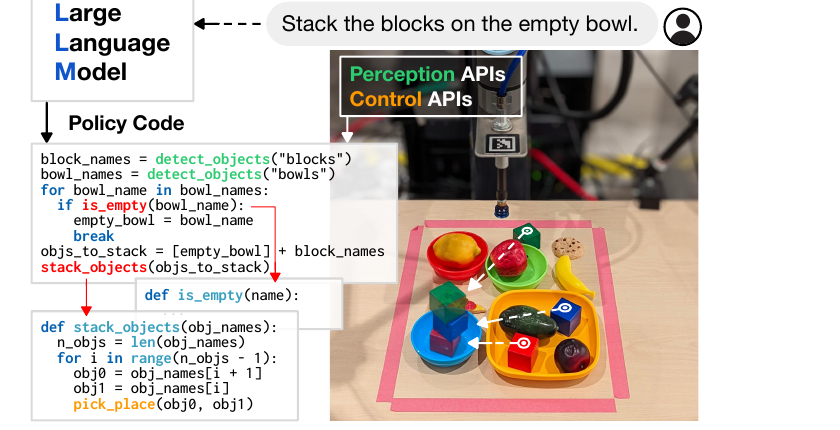
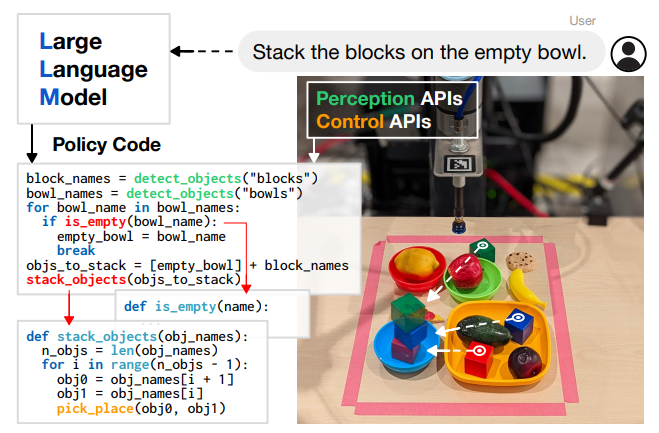
fix: 修复一些图片格式2

diff --git a/chapters/chapter1.tex b/chapters/chapter1.tex
@@ -48,7 +48,7 @@
 
 \begin{figure}[htbp]
   \centering
-  \includegraphics[width=0.72\linewidth]{figures/content/dmp_simulation}
+  \includegraphics[width=0.88\linewidth]{figures/content/dmp_simulation}
   \caption{基于动态运动基元的机械臂抓取与放置仿真实验\cite{pastor2009learning}}
   \label{fig:dmp_sim}
 \end{figure}
@@ -57,12 +57,12 @@
 
 2013年，瑞士洛桑联邦理工学院的研究人员对动态运动基元框架进行了系统性总结与扩展，将离散运动与周期运动纳入同一框架，并从理论层面证明了该方法在稳定性与泛化性方面的优势\cite{ijspeert2013dynamical}。同年，德国达姆施塔特工业大学的研究人员提出了概率运动基元方法，通过引入概率分布对运动轨迹进行表征，不仅能够处理示教数据中的不确定性，还支持多技能的组合与条件化执行，进一步提升了机器人对不同任务变量的适应能力\cite{paraschos2013probabilistic}。2016年，Idiap研究所的研究人员提出了任务参数化高斯混合模型方法，通过将任务相关的坐标系参数化引入技能表示，使机器人能够在不同参考系下自适应地复现操作技能\cite{calinon2016tutorial}。在国内，北京科技大学的研究团队于2022年提出了一种基于动态运动基元的机器人技能学习框架，通过引入分阶段示教策略与自适应神经网络控制方法，解决了多关节机械臂在执行复杂长序列任务时的轨迹拼接与高精度跟踪问题，提升了技能学习系统在实际应用中的可靠性\cite{kong2023dynamic}。
 
-然而，上述传统方法在面对高维状态空间以及需要视觉反馈的复杂任务时，其适应性受到了限制。随着深度学习技术的发展，机器学习方法逐渐成为机械臂操作技能学习的主流研究方向。2015年，加州大学伯克利分校的研究团队将引导策略搜索方法应用于机械臂操作任务，通过在轨迹空间中交替优化局部控制器与全局神经网络策略，在真实机械臂上成功实现了包括螺丝拧紧、插销装配等多种操作技能\cite{levine2015learning}。2017年，谷歌DeepMind与加州大学伯克利分校的联合研究团队提出了基于异步离策略更新的深度强化学习框架，通过将多台机器人并行采集的经验汇聚至共享的经验回放池进行异步策略更新，提升了样本效率，在真实机械臂上无需任何人工示教地学习了开门等复杂操作技能\cite{gu2017deep}。同年，OpenAI的研究团队提出了事后经验回放机制，通过将未达成目标的失败经验重新标记为成功达成其他目标的经验，在推、滑动和抓取等机械臂操作任务上提升了样本效率与学习成功率\cite{andrychowicz2017hindsight}。2018年，Google Brain的研究团队提出了可扩展的深度强化学习框架，通过收集真实机械臂抓取数据，在真实机械臂上实现了闭环视觉抓取技能，并展现出自动重抓取与非预抓取操作等复杂智能行为\cite{kalashnikov2018qt}。如图\ref{fig:qtopt_system}所示，QT-Opt采用分布式强化学习架构，通过离线与在线经验回放池驱动贝尔曼更新与交叉熵策略优化，实现了大规模视觉抓取技能的端到端学习。
+然而，上述传统方法在面对高维状态空间以及需要视觉反馈的复杂任务时，其适应性受到了限制。随着深度学习技术的发展，机器学习方法逐渐成为机械臂操作技能学习的主流研究方向。2015年，加州大学伯克利分校的研究团队将引导策略搜索方法应用于机械臂操作任务，通过在轨迹空间中交替优化局部控制器与全局神经网络策略，在真实机械臂上成功实现了包括螺丝拧紧、插销装配等多种操作技能\cite{levine2015learning}。2017年，谷歌DeepMind与加州大学伯克利分校的联合研究团队提出了基于异步离策略更新的深度强化学习框架，通过将多台机器人并行采集的经验汇聚至共享的经验回放池进行异步策略更新，提升了样本效率，在真实机械臂上无需任何人工示教地学习了开门等复杂操作技能\cite{gu2017deep}。同年，OpenAI的研究团队提出了事后经验回放机制，通过将未达成目标的失败经验重新标记为成功达成其他目标的经验，在推、滑动和抓取等机械臂操作任务上提升了样本效率与学习成功率\cite{andrychowicz2017hindsight}。2018年，Google Brain的研究团队提出了如图\ref{fig:qtopt_system}所示的可扩展的深度强化学习框架，通过收集真实机械臂抓取数据，在真实机械臂上实现了闭环视觉抓取技能，并展现出自动重抓取与非预抓取操作等复杂智能行为\cite{kalashnikov2018qt}。
 
 \begin{figure}[htbp]
   \centering
-  \includegraphics[width=0.75\linewidth]{figures/content/qtopt_system}
-  \caption{QT-Opt分布式强化学习系统架构\cite{kalashnikov2018qt}}
+  \includegraphics[width=0.68\linewidth]{figures/content/qtopt_system}
+  \caption{分布式强化学习系统架构\cite{kalashnikov2018qt}}
   \label{fig:qtopt_system}
 \end{figure}
 
@@ -75,14 +75,7 @@
 
 模仿学习的早期研究从示教编程开始。这类方法通过记录人类操作者的轨迹或指令，直接映射为机器人的运动序列。例如，早期的工业机器人通常使用示教盒，由操作员手动引导机器人完成一系列动作，系统记录下关节点的位置序列，然后在生产中精确回放这些轨迹\cite{shimano1979val}。这种直接的示教回放方式操作简单、轨迹稳定，在结构化和确定性的工业环境中得到了广泛应用\cite{pan2012recent}。然而，这类编程方式的局限性也十分明显，它本质上是一种开环控制，不具备感知和决策能力。一旦工作环境或目标物体的位置发生微小变化，预先录制的轨迹便会失效，导致任务失败\cite{lozanoperez1983robot}。
 
-为了克服示教编程的局限性，研究人员开始探索能够让机器人从数据中学习决策规律的行为克隆方法。行为克隆通过监督学习的方式，直接学习从状态到动作的映射函数。但简单的行为克隆假设训练数据与测试数据独立同分布，忽略了策略在执行过程中可能遇到的未知状态，导致误差累积和策略失效。为解决此问题，2011年，卡内基梅隆大学的研究人员通过在策略执行过程中引入专家在线标注，迭代式地修正策略的复合误差，提升了模仿学习策略的鲁棒性\cite{ross2011dagger}。2016年，斯坦福大学的研究团队提出了生成对抗模仿学习，将生成对抗网络的思想引入模仿学习，通过训练一个判别器来区分专家轨迹与生成轨迹，从而引导策略学习与专家相似的行为模式，实现了在未知专家动作的情况下仅从状态序列中学习复杂技能\cite{ho2016generative}。如图\ref{fig:gail_results}所示，GAIL在多个连续控制任务上均优于行为克隆、特征期望匹配等基线方法，验证了生成对抗框架在模价学习中的有效性。
-
-\begin{figure}[htbp]
-  \centering
-  \includegraphics[width=0.90\linewidth]{figures/content/gail_results}
-  \caption{GAIL与各基线方法在多个任务上的性能对比\cite{ho2016generative}}
-  \label{fig:gail_results}
-\end{figure}
+为了克服示教编程的局限性，研究人员开始探索能够让机器人从数据中学习决策规律的行为克隆方法。行为克隆通过监督学习的方式，直接学习从状态到动作的映射函数。但简单的行为克隆假设训练数据与测试数据独立同分布，忽略了策略在执行过程中可能遇到的未知状态，导致误差累积和策略失效。为解决此问题，2011年，卡内基梅隆大学的研究人员通过在策略执行过程中引入专家在线标注，迭代式地修正策略的复合误差，提升了模仿学习策略的鲁棒性\cite{ross2011dagger}。2016年，斯坦福大学的研究团队提出了生成对抗模仿学习，将生成对抗网络的思想引入模仿学习，通过训练一个判别器来区分专家轨迹与生成轨迹，从而引导策略学习与专家相似的行为模式，实现了在未知专家动作的情况下仅从状态序列中学习复杂技能\cite{ho2016generative}。
 
 随着计算机视觉技术的发展，直接从视觉输入进行端到端模仿学习成为可能。2018年，加州大学伯克利分校的研究团队将深度学习与行为克隆相结合，直接从原始像素学习视觉运动策略，在无需显式物体检测或位姿估计的情况下，成功完成了真实的机械臂操作任务\cite{zhang2018deep}。这类方法省去了复杂的传感器标定和特征工程，为机器人在非结构化环境中的操作提供了新的解决思路\cite{levine2016end}。Meta AI的研究团队在2022年提出了R3M，通过在海量的人类活动视频数据上进行预训练，学习到一个通用的视觉表征，该表征可以有效迁移至下游的机器人操作任务，仅需少量演示数据即可实现模仿学习\cite{nair2022r3m}。然而，简单的行为克隆方法通常假设动作是单步独立的，这在处理需要带有时序特征的任务时存在局限。2023年，斯坦福大学的研究团队提出了基于Transformer的动作分块方法即ACT，该方法将模仿学习视为一个序列生成问题，通过一个条件变分自编码器来联合预测未来的一系列动作块，从而更好地捕捉动作之间的时间依赖关系，在双臂协同等精细操作任务上取得了成功\cite{zhao2023learning}。
 
@@ -116,7 +109,7 @@
 \begin{figure}[htbp]
   \centering
   \includegraphics[width=0.75\linewidth]{figures/content/cap_framework}
-  \caption{Code as Policies利用大型语言模型生成策略代码的整体框架\cite{liang2023code}}
+  \caption{利用大型语言模型生成策略代码的整体框架\cite{liang2023code}}
   \label{fig:cap_framework}
 \end{figure}
 
